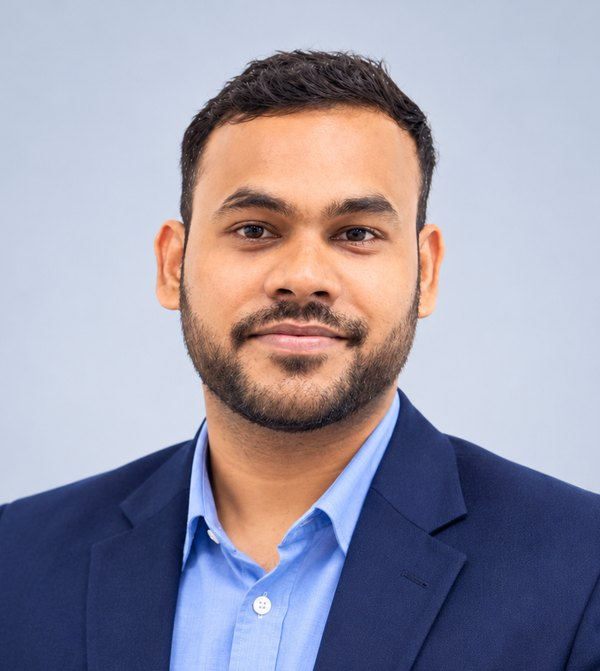
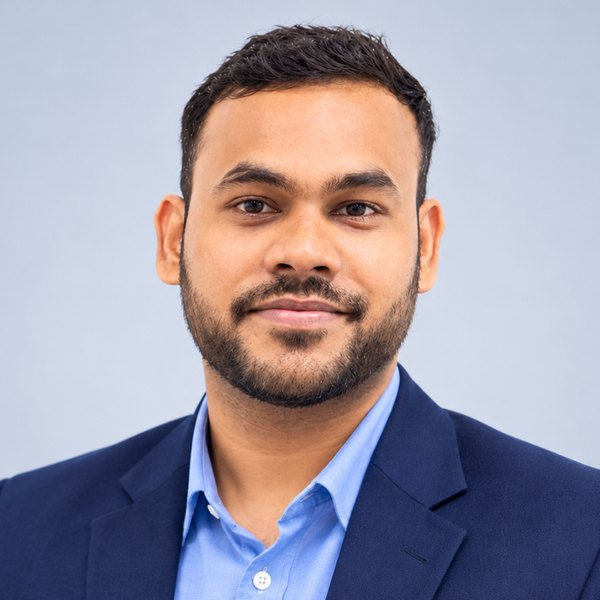
Round profile photo with shoulders

diff --git a/index.html b/index.html
@@ -110,12 +110,12 @@ p { margin: 0; }
 .hero h1 { font-size: var(--step-4); line-height: 1.05; margin-top: 0.75rem; }
 .id-row { display: flex; align-items: center; gap: 1.5rem; }
 .portrait {
-  flex: none; width: 11.5rem; height: auto; aspect-ratio: 600 / 671; border-radius: 14px; object-fit: cover;
+  flex: none; width: 11.5rem; height: 11.5rem; border-radius: 50%; object-fit: cover;
   border: 3px solid var(--surface); box-shadow: 0 0 0 1px var(--line), 0 6px 18px rgba(26, 30, 48, 0.12);
 }
 @media (max-width: 520px) {
   .id-row { flex-direction: column; align-items: flex-start; gap: 1rem; }
-  .portrait { width: 10rem; height: auto; }
+  .portrait { width: 9.5rem; height: 9.5rem; }
 }
 .id-row h1 { font-size: clamp(2.25rem, 2.4vw + 1rem, 3.25rem); }
 .lede { font-family: var(--font-display); font-size: var(--step-2); line-height: 1.35; margin-top: 1.25rem; max-width: 34ch; }
@@ -327,7 +327,7 @@ section.block { padding-block: 4rem; border-bottom: 1px solid var(--line); }
     <div class="wrap">
       <div>
         <div class="id-row">
-          <img class="portrait" src="photo.jpg?v=3" width="600" height="671" alt="Portrait of Santosh Kumar Gupta">
+          <img class="portrait" src="photo.jpg?v=4" width="600" height="600" alt="Portrait of Santosh Kumar Gupta">
           <div>
             <p class="eyebrow">PhD Research Scholar &middot; University of Hyderabad</p>
             <h1>Santosh Kumar Gupta</h1>
